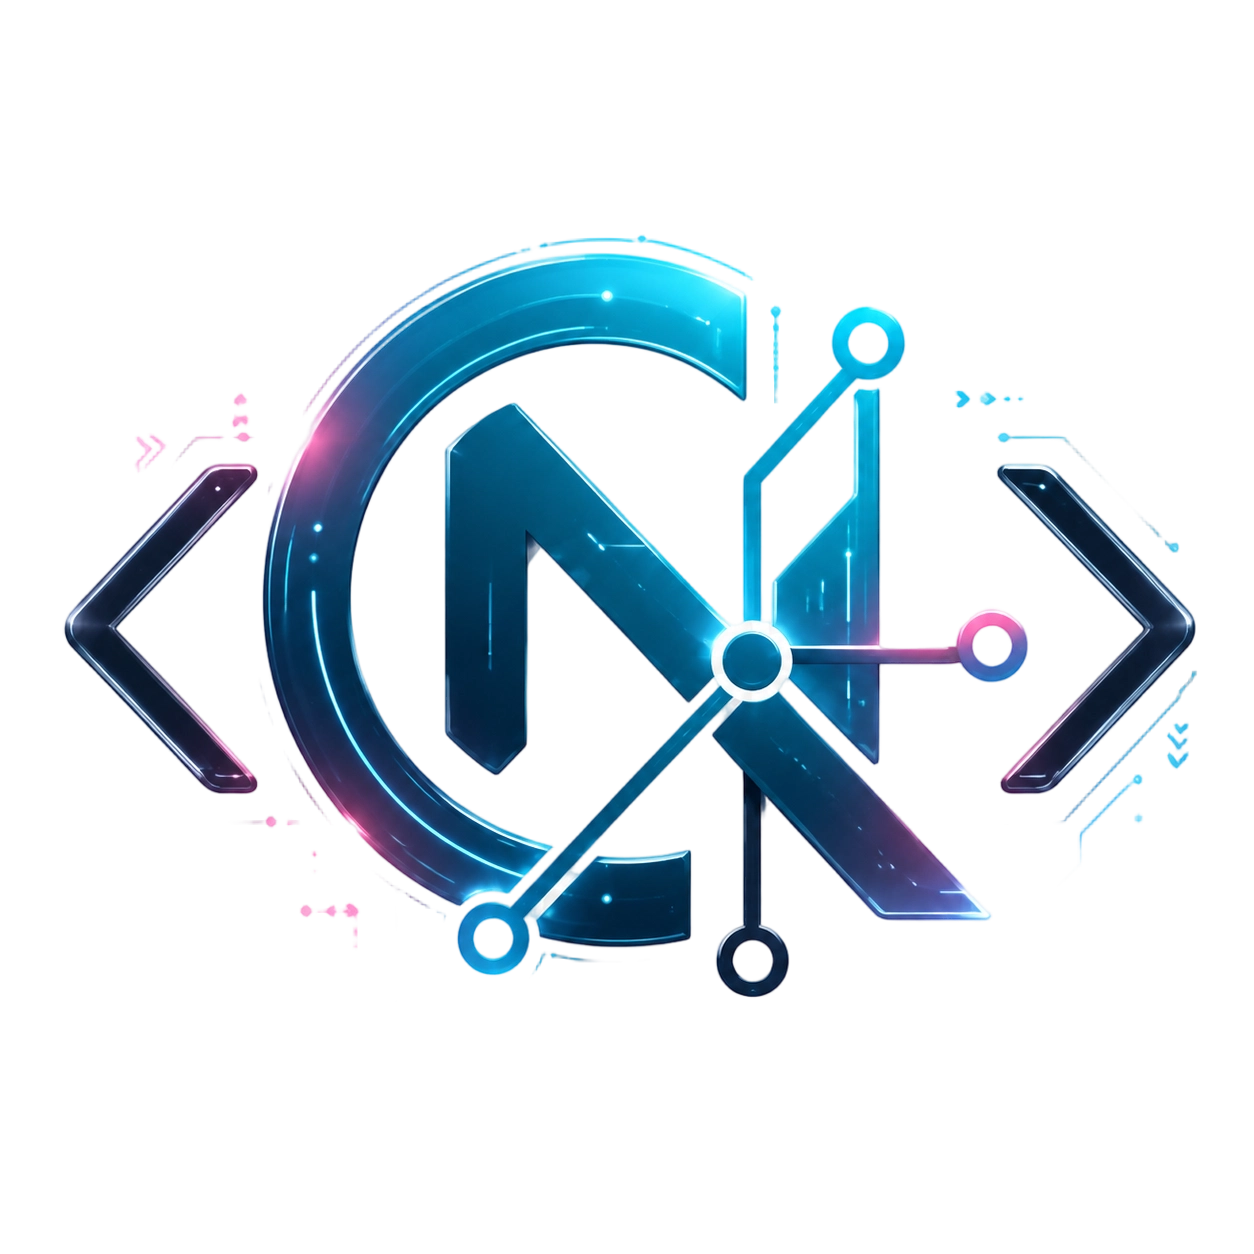
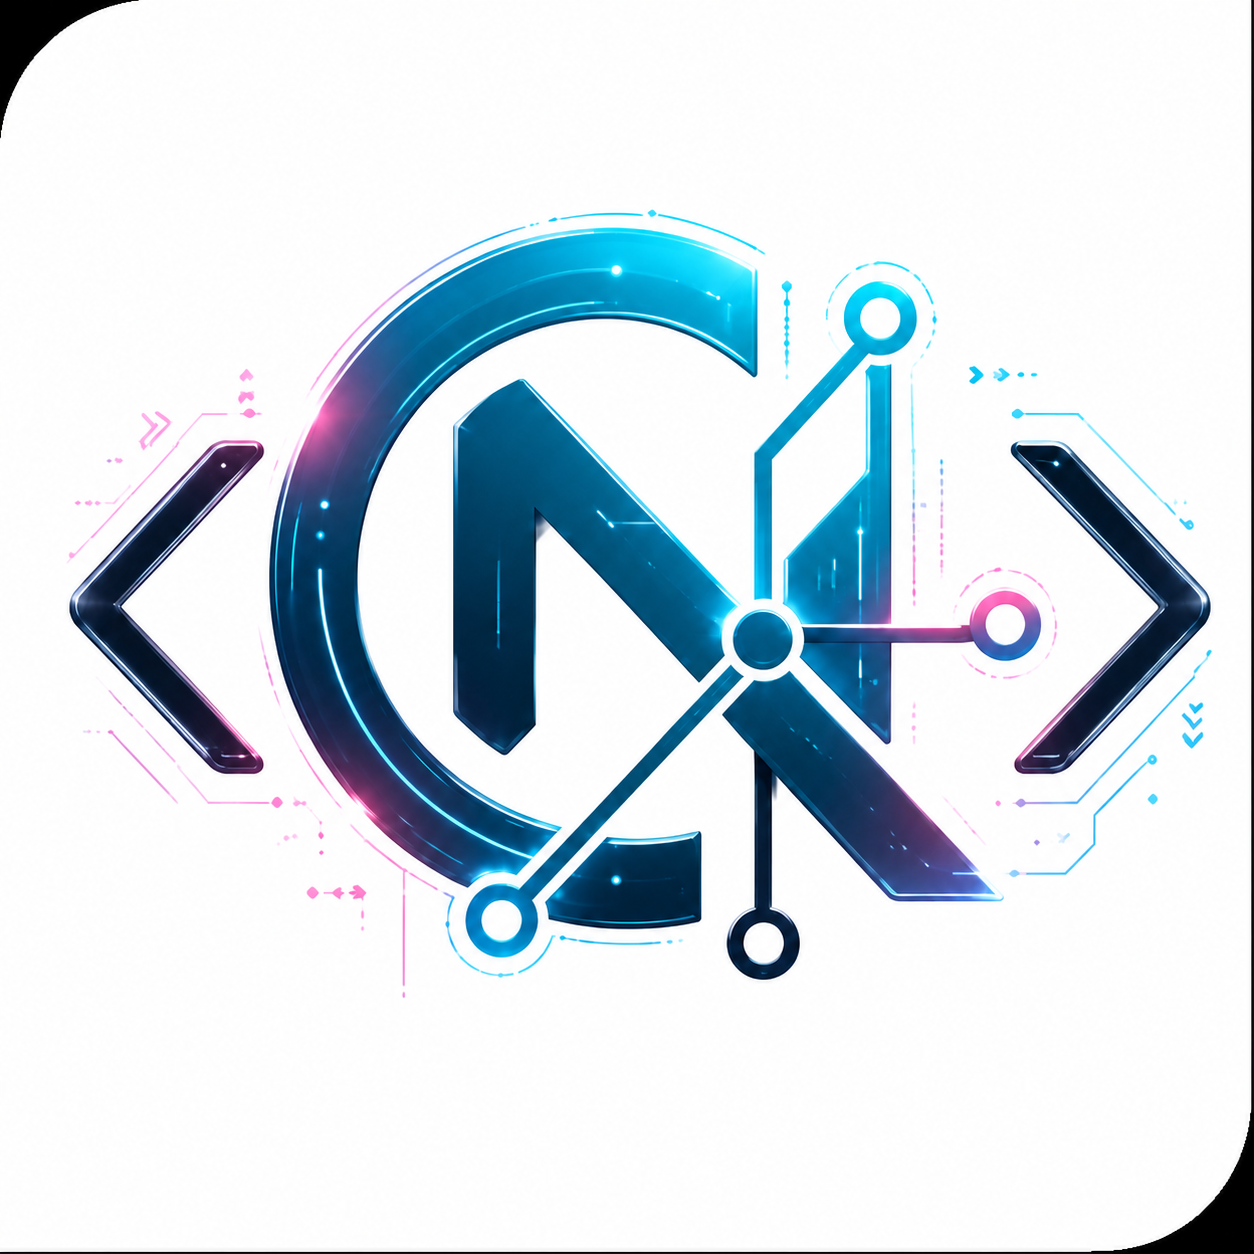
style: 更新主题和应用图标

diff --git a/src/renderer/theme/theme-seeds.css b/src/renderer/theme/theme-seeds.css
@@ -58,17 +58,17 @@
 
 :root[data-theme="dark"] {
   color-scheme: dark;
-  --theme-seed-bg: rgb(31 31 31);
-  --theme-seed-surface-1: rgb(24 24 24);
-  --theme-seed-surface-2: rgb(32 32 32);
-  --theme-seed-surface-3: rgb(43 43 43);
+  --theme-seed-bg: rgb(24 24 24);
+  --theme-seed-surface-1: rgb(17 17 17);
+  --theme-seed-surface-2: rgb(31 31 31);
+  --theme-seed-surface-3: rgb(42 42 42);
   --theme-seed-elevated: rgb(34 34 34);
-  --theme-seed-text: rgb(204 204 204);
-  --theme-seed-text-muted: rgb(157 157 157);
-  --theme-seed-border-source: rgb(106 106 106);
+  --theme-seed-text: rgb(212 212 212);
+  --theme-seed-text-muted: rgb(138 138 138);
+  --theme-seed-border-source: rgb(120 120 120);
   --theme-seed-shadow-source: rgb(0 0 0);
-  --theme-seed-accent: rgb(0 120 212);
-  --theme-seed-accent-contrast: rgb(255 255 255);
+  --theme-seed-accent: rgb(157 191 232);
+  --theme-seed-accent-contrast: rgb(10 12 15);
   --theme-seed-success: rgb(46 160 67);
   --theme-seed-warning: rgb(226 192 141);
   --theme-seed-danger: rgb(248 81 73);

diff --git a/src/main/windows/mainWindow.ts b/src/main/windows/mainWindow.ts
@@ -43,7 +43,7 @@ export async function createMainWindow(opts: MainWindowOptions): Promise<Browser
     minWidth: 950,
     height: 780,
     autoHideMenuBar: true,
-    backgroundColor: "#1f1f1f",
+    backgroundColor: "#181818",
     frame: !useCustomTitlebar,
     icon: windowIcon,
     webPreferences: {